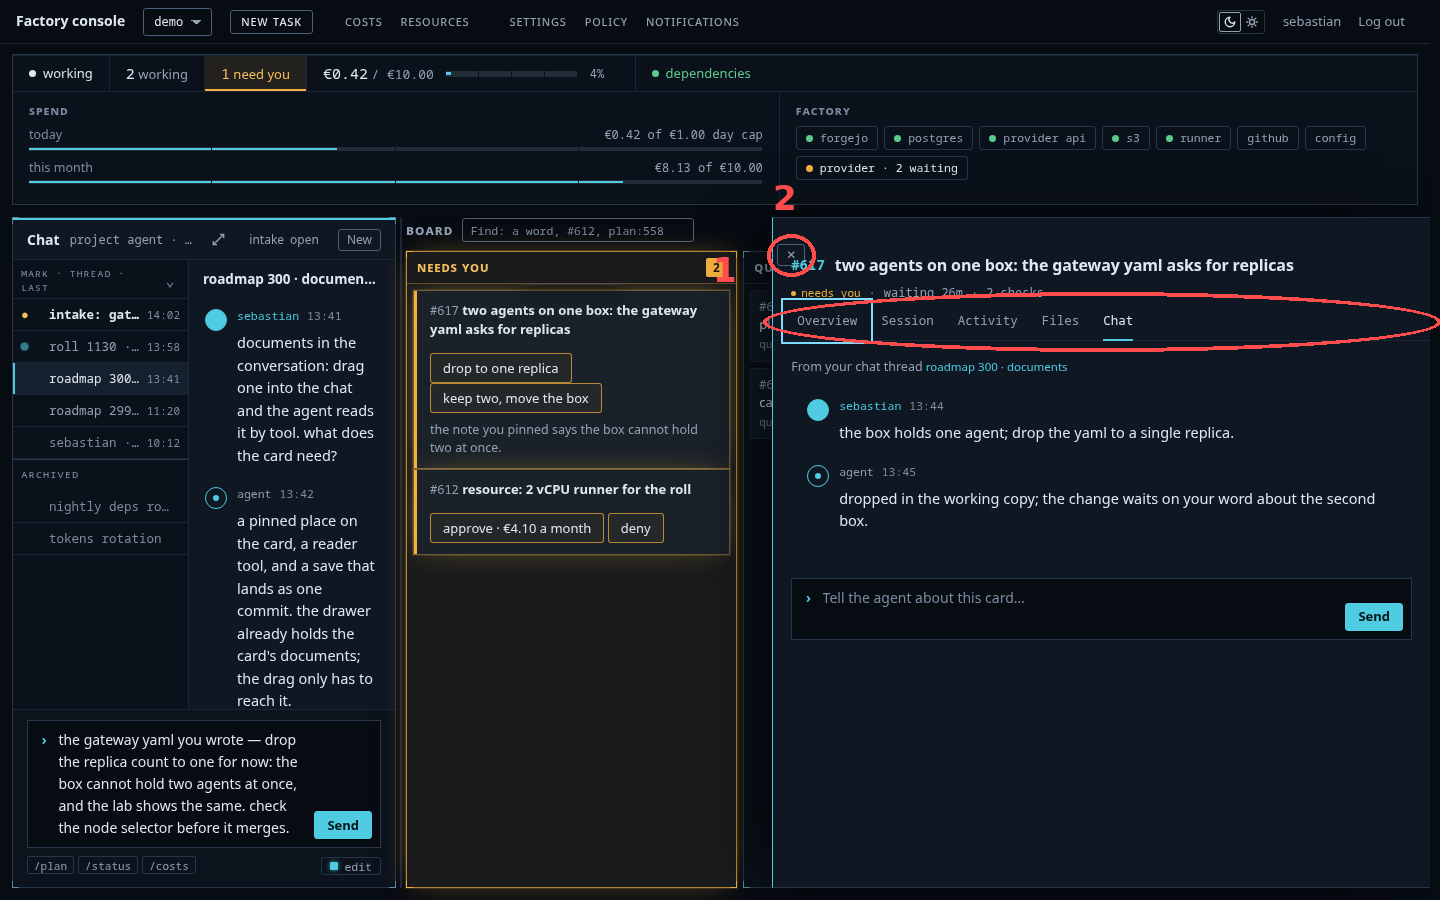
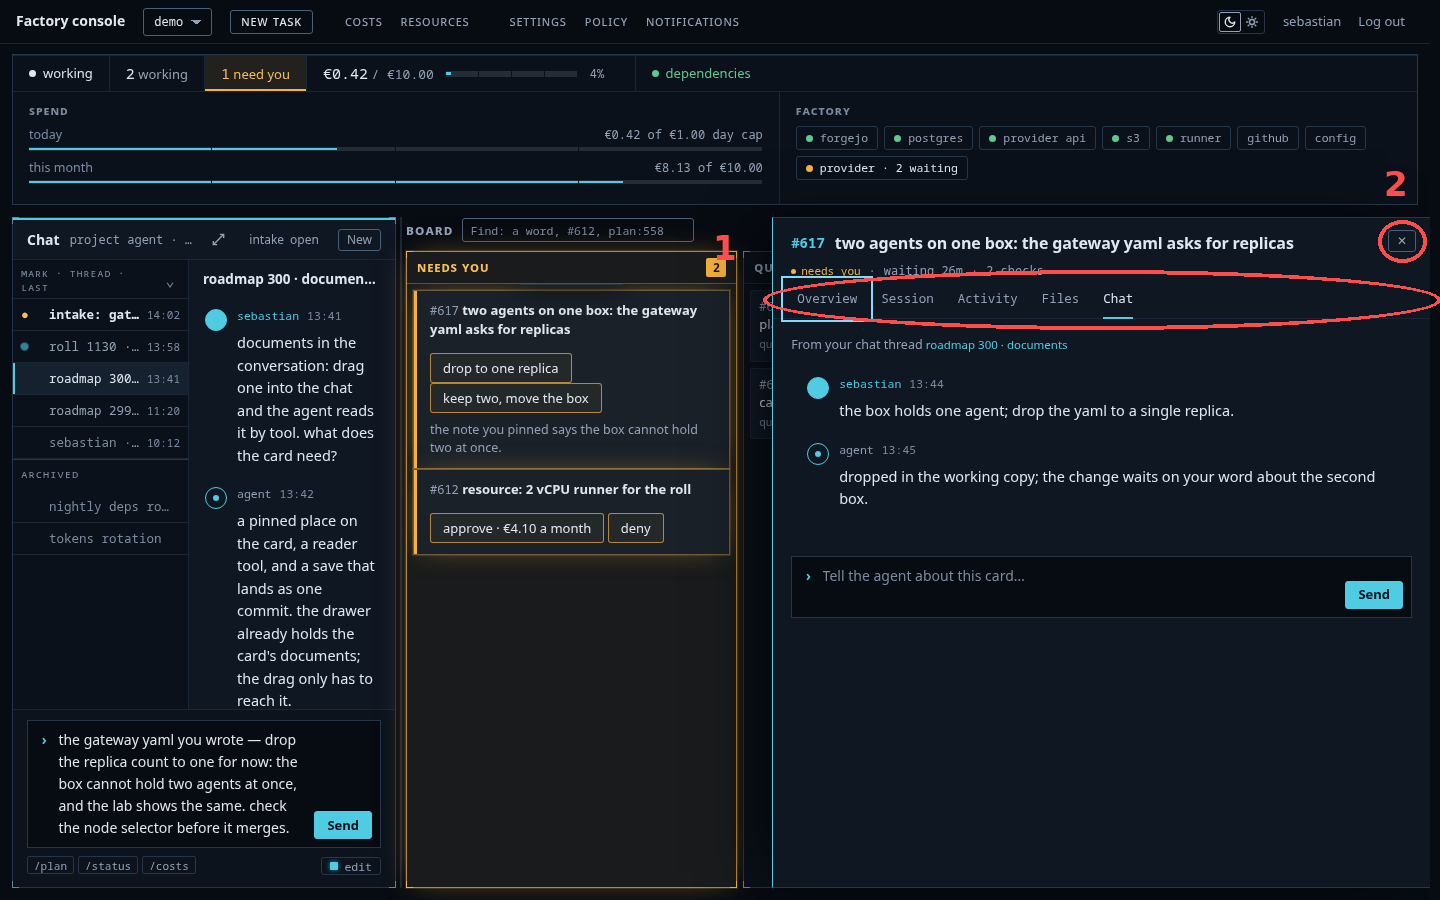
round 11: the input sizer seam, and the drawer X unseated by the tooltip anchor fixed

diff --git a/design/rounds/11-compact-reorg/cand/try-a-bundle.html b/design/rounds/11-compact-reorg/cand/try-a-bundle.html
@@ -34,6 +34,7 @@ a.lchip { text-decoration: none; }
 .chat.with-threads > .composer { grid-column: 1 / -1; }
 
 /* try wiring: the glyph flips, the edge tab returns, tooltips on every quiet control */
+[data-tip] { position: relative; }
 .wctl .col { display: none; }
 .wctl[aria-pressed="true"] .exp { display: none; }
 .wctl[aria-pressed="true"] .col { display: block; }
@@ -42,10 +43,15 @@ a.lchip { text-decoration: none; }
 .edge-tab:hover { color: var(--accent); border-color: var(--accent); }
 #screen.chat-only .edge-tab { display: inline-flex; align-items: center; }
 #chat-divider { cursor: col-resize; }
+form.composer { position: relative; }
+.growbar { position: absolute; top: -5px; left: 0; right: 0; height: 10px; cursor: row-resize; z-index: 5; }
+.growbar::after { content: "\2965"; position: absolute; left: 50%; top: 50%; transform: translate(-50%, -50%) rotate(-45deg); display: inline-flex; align-items: center; justify-content: center; width: 30px; height: 18px; border: 1px solid var(--line-strong); border-radius: 3px; background: var(--bg-raised); color: var(--text-faint); font: 11px/1 var(--font-mono); opacity: 0; transition: opacity .12s; }
+.growbar:hover::after, .growbar:focus-visible::after { opacity: 1; }
 .tip { display: none; }
-[data-tip] { position: relative; }
 [data-tip]:hover::after, [data-tip]:focus-visible::after { content: attr(data-tip); position: absolute; left: 50%; bottom: calc(100% + 6px); transform: translateX(-50%); white-space: nowrap; padding: 3px 8px; border: 1px solid var(--line-strong); background: var(--bg-raised); color: var(--text-muted); font: 11px/1.5 var(--font-mono); box-shadow: 0 8px 24px rgba(0,0,0,.35); z-index: 80; pointer-events: none; }
 #chat-divider[data-tip]:hover::after, #chat-divider[data-tip]:focus-visible::after { left: 14px; bottom: 50%; transform: translateY(50%); }
+/* the tooltip anchor must not unseat the console's absolutely placed controls */
+.drawer-close { position: absolute; top: 12px; right: 14px; }
 
 #screen.chat-only .chat.with-threads { grid-template-columns: 176px minmax(0, 48rem); justify-content: center; }
 .pane[hidden] { display: none; }
@@ -360,6 +366,44 @@ intake <span class="intake-name">open</span>
     intake.setAttribute("data-intake", open ? "closed" : "open");
     intake.setAttribute("aria-pressed", open ? "true" : "false");
     var n = intake.querySelector(".intake-name"); if (n) n.textContent = open ? "closed" : "open";
+  });
+
+  // the input's top edge: drag to size, double-click to reset, grows with typing
+  document.querySelectorAll("form.composer").forEach(function (form) {
+    var ta = form.querySelector("textarea");
+    if (!ta) return;
+    var bar = document.createElement("div");
+    bar.className = "growbar";
+    bar.setAttribute("data-tip", "Drag to size the input; double-click resets it");
+    bar.setAttribute("role", "separator");
+    bar.setAttribute("aria-orientation", "horizontal");
+    bar.setAttribute("tabindex", "0");
+    form.insertBefore(bar, form.firstChild);
+    var y0 = 0, h0 = 0, on = false;
+    bar.addEventListener("pointerdown", function (e) {
+      on = true; y0 = e.clientY; h0 = ta.getBoundingClientRect().height;
+      try { bar.setPointerCapture(e.pointerId); } catch (x) {}
+      e.preventDefault();
+    });
+    bar.addEventListener("pointermove", function (e) {
+      if (!on) return;
+      var h = Math.round(Math.max(44, Math.min(window.innerHeight * 0.6, h0 + (y0 - e.clientY))));
+      ta.style.height = h + "px";
+    });
+    ["pointerup", "pointercancel"].forEach(function (n) { bar.addEventListener(n, function () { on = false; }); });
+    bar.addEventListener("dblclick", function () { ta.style.height = ""; });
+    bar.addEventListener("keydown", function (e) {
+      if (e.key !== "ArrowUp" && e.key !== "ArrowDown") return;
+      var cur = ta.getBoundingClientRect().height;
+      var h = Math.round(Math.max(44, Math.min(window.innerHeight * 0.6, cur + (e.key === "ArrowUp" ? 24 : -24))));
+      ta.style.height = h + "px";
+      e.preventDefault();
+    });
+    ta.addEventListener("input", function () {
+      if (ta.scrollHeight > ta.clientHeight) {
+        ta.style.height = Math.min(Math.round(window.innerHeight * 0.6), ta.scrollHeight) + "px";
+      }
+    });
   });
 
   var sw = document.querySelector("[data-swtoggle]");

diff --git a/design/rounds/11-compact-reorg/cand/try-b-tabs.html b/design/rounds/11-compact-reorg/cand/try-b-tabs.html
@@ -24,6 +24,7 @@
 .ctab .cbadge { font: 10px/1 var(--font-mono); color: var(--text-faint); }
 
 /* try wiring: the glyph flips, the edge tab returns, tooltips on every quiet control */
+[data-tip] { position: relative; }
 .wctl .col { display: none; }
 .wctl[aria-pressed="true"] .exp { display: none; }
 .wctl[aria-pressed="true"] .col { display: block; }
@@ -32,10 +33,15 @@
 .edge-tab:hover { color: var(--accent); border-color: var(--accent); }
 #screen.chat-only .edge-tab { display: inline-flex; align-items: center; }
 #chat-divider { cursor: col-resize; }
+form.composer { position: relative; }
+.growbar { position: absolute; top: -5px; left: 0; right: 0; height: 10px; cursor: row-resize; z-index: 5; }
+.growbar::after { content: "\2965"; position: absolute; left: 50%; top: 50%; transform: translate(-50%, -50%) rotate(-45deg); display: inline-flex; align-items: center; justify-content: center; width: 30px; height: 18px; border: 1px solid var(--line-strong); border-radius: 3px; background: var(--bg-raised); color: var(--text-faint); font: 11px/1 var(--font-mono); opacity: 0; transition: opacity .12s; }
+.growbar:hover::after, .growbar:focus-visible::after { opacity: 1; }
 .tip { display: none; }
-[data-tip] { position: relative; }
 [data-tip]:hover::after, [data-tip]:focus-visible::after { content: attr(data-tip); position: absolute; left: 50%; bottom: calc(100% + 6px); transform: translateX(-50%); white-space: nowrap; padding: 3px 8px; border: 1px solid var(--line-strong); background: var(--bg-raised); color: var(--text-muted); font: 11px/1.5 var(--font-mono); box-shadow: 0 8px 24px rgba(0,0,0,.35); z-index: 80; pointer-events: none; }
 #chat-divider[data-tip]:hover::after, #chat-divider[data-tip]:focus-visible::after { left: 14px; bottom: 50%; transform: translateY(50%); }
+/* the tooltip anchor must not unseat the console's absolutely placed controls */
+.drawer-close { position: absolute; top: 12px; right: 14px; }
 
 #screen.chat-only .chat-main { max-width: 48rem; margin: 0 auto; width: 100%; }
 #switcher { display: none; }
@@ -316,6 +322,44 @@ intake <span class="intake-name">open</span>
     intake.setAttribute("data-intake", open ? "closed" : "open");
     intake.setAttribute("aria-pressed", open ? "true" : "false");
     var n = intake.querySelector(".intake-name"); if (n) n.textContent = open ? "closed" : "open";
+  });
+
+  // the input's top edge: drag to size, double-click to reset, grows with typing
+  document.querySelectorAll("form.composer").forEach(function (form) {
+    var ta = form.querySelector("textarea");
+    if (!ta) return;
+    var bar = document.createElement("div");
+    bar.className = "growbar";
+    bar.setAttribute("data-tip", "Drag to size the input; double-click resets it");
+    bar.setAttribute("role", "separator");
+    bar.setAttribute("aria-orientation", "horizontal");
+    bar.setAttribute("tabindex", "0");
+    form.insertBefore(bar, form.firstChild);
+    var y0 = 0, h0 = 0, on = false;
+    bar.addEventListener("pointerdown", function (e) {
+      on = true; y0 = e.clientY; h0 = ta.getBoundingClientRect().height;
+      try { bar.setPointerCapture(e.pointerId); } catch (x) {}
+      e.preventDefault();
+    });
+    bar.addEventListener("pointermove", function (e) {
+      if (!on) return;
+      var h = Math.round(Math.max(44, Math.min(window.innerHeight * 0.6, h0 + (y0 - e.clientY))));
+      ta.style.height = h + "px";
+    });
+    ["pointerup", "pointercancel"].forEach(function (n) { bar.addEventListener(n, function () { on = false; }); });
+    bar.addEventListener("dblclick", function () { ta.style.height = ""; });
+    bar.addEventListener("keydown", function (e) {
+      if (e.key !== "ArrowUp" && e.key !== "ArrowDown") return;
+      var cur = ta.getBoundingClientRect().height;
+      var h = Math.round(Math.max(44, Math.min(window.innerHeight * 0.6, cur + (e.key === "ArrowUp" ? 24 : -24))));
+      ta.style.height = h + "px";
+      e.preventDefault();
+    });
+    ta.addEventListener("input", function () {
+      if (ta.scrollHeight > ta.clientHeight) {
+        ta.style.height = Math.min(Math.round(window.innerHeight * 0.6), ta.scrollHeight) + "px";
+      }
+    });
   });
 
   var sw = document.querySelector("[data-swtoggle]");

diff --git a/design/rounds/11-compact-reorg/cand/test-try.js b/design/rounds/11-compact-reorg/cand/test-try.js
@@ -22,6 +22,8 @@ const { chromium } = require("playwright");
     full: document.getElementById("screen").classList.contains("chat-only"),
     pressed: document.getElementById("chat-full").getAttribute("aria-pressed"),
     edgeVisible: getComputedStyle(document.querySelector(".edge-tab")).display !== "none",
+    edgePos: getComputedStyle(document.querySelector(".edge-tab")).position,
+    edgeX: Math.round(document.querySelector(".edge-tab").getBoundingClientRect().x),
     colGlyph: getComputedStyle(document.querySelector("#chat-full .col")).display !== "none"
   }));
   await p.keyboard.press("Escape");
@@ -38,7 +40,12 @@ const { chromium } = require("playwright");
   out.a_drawer = await p.evaluate(() => ({
     shown: !document.getElementById("drawer").hidden,
     ref: document.querySelector("#drawer .dr-ref").textContent,
-    title: document.querySelector("#drawer .dr-title h2").textContent
+    title: document.querySelector("#drawer .dr-title h2").textContent,
+    closeClear: (() => {
+      const c = document.querySelector("#drawer-close").getBoundingClientRect();
+      const h = document.querySelector("#drawer .dr-title h2").getBoundingClientRect();
+      return !(c.x < h.right && h.x < c.right && c.y < h.bottom && h.y < c.bottom);
+    })()
   }));
   await p.click('[data-tab="overview"]');
   out.a_tabOverview = await p.evaluate(() => ({
@@ -67,6 +74,33 @@ const { chromium } = require("playwright");
   // tooltip on hover
   await p.hover("#chat-full");
   out.a_tip = await p.evaluate(() => getComputedStyle(document.querySelector("#chat-full"), "::after").content !== "none");
+  // the input sizer: drag, reset, keys, auto-grow
+  out.a_growInit = await p.evaluate(() => {
+    const form = document.querySelector("#chat-form");
+    const bar = form.querySelector(".growbar");
+    return {
+      bar: !!bar,
+      firstChild: form.firstElementChild === bar,
+      atTop: Math.abs(bar.getBoundingClientRect().top + bar.getBoundingClientRect().height / 2 - form.getBoundingClientRect().top) <= 1,
+      taH: Math.round(form.querySelector("textarea").getBoundingClientRect().height)
+    };
+  });
+  const bar = await p.evaluate(() => {
+    const r = document.querySelector("#chat-form .growbar").getBoundingClientRect();
+    return { x: Math.round(r.x + r.width / 2), y: Math.round(r.y + r.height / 2) };
+  });
+  await p.mouse.move(bar.x, bar.y);
+  await p.mouse.down();
+  await p.mouse.move(bar.x, bar.y - 120, { steps: 6 });
+  await p.mouse.up();
+  out.a_growDrag = await p.evaluate(() => Math.round(document.querySelector("#chat-form textarea").getBoundingClientRect().height));
+  await p.dblclick("#chat-form .growbar");
+  out.a_growReset = await p.evaluate(() => Math.round(document.querySelector("#chat-form textarea").getBoundingClientRect().height));
+  await p.focus("#chat-form .growbar");
+  await p.keyboard.press("ArrowUp");
+  out.a_growKeys = await p.evaluate(() => Math.round(document.querySelector("#chat-form textarea").getBoundingClientRect().height));
+  await p.fill("#chat-form textarea", "x".repeat(600));
+  out.a_growAuto = await p.evaluate(() => Math.round(document.querySelector("#chat-form textarea").getBoundingClientRect().height));
   out.a_errs = errs;
   await p.close();
 
@@ -95,6 +129,16 @@ const { chromium } = require("playwright");
   }));
   await p.keyboard.press("Escape");
   out.b_esc = await p.evaluate(() => !document.getElementById("screen").classList.contains("chat-only"));
+  // B shares the input sizer
+  const bBar = await p.evaluate(() => {
+    const r = document.querySelector("form.composer .growbar").getBoundingClientRect();
+    return { x: Math.round(r.x + r.width / 2), y: Math.round(r.y + r.height / 2) };
+  });
+  await p.mouse.move(bBar.x, bBar.y);
+  await p.mouse.down();
+  await p.mouse.move(bBar.x, bBar.y - 80, { steps: 6 });
+  await p.mouse.up();
+  out.b_grow = await p.evaluate(() => Math.round(document.querySelector("form.composer textarea").getBoundingClientRect().height));
   out.b_errs = errsB;
   await p.close();
 

diff --git a/design/rounds/11-compact-reorg/index.html b/design/rounds/11-compact-reorg/index.html
@@ -40,8 +40,8 @@ li { margin: 3px 0; }
 
 <h2>Try the two finalists</h2>
 <p>Both are live pages, not pictures. Open each, then: drag the divider, press the glyph, hover anything quiet, open a card. The red circles mark the controls.</p>
-<p><strong><a href="cand/try-a-bundle.html">A — the bundle</a></strong> (try it). <strong>1</strong> the glyph toggle: chat to full screen and back, the glyph flips, Esc also exits. <strong>2</strong> the divider: drag it, or focus it and press the arrow keys; the chat never shrinks under 24 rem. <strong>3</strong> the lamp chips: hover for state, detail and age. <strong>4</strong> any card opens the drawer. <strong>5</strong> the intake: click to close or open the agent's own filings. Typing and sending works in both composers; the theme buttons top right switch dark and light.</p>
-<figure><img src="cand/try-a-annotated.png" alt="the bundle at rest, controls circled" loading="lazy"><figcaption>A at rest. The glyph, the divider, the chips, a card, the intake.</figcaption></figure>
+<p><strong><a href="cand/try-a-bundle.html">A — the bundle</a></strong> (try it). <strong>1</strong> the glyph toggle: chat to full screen and back, the glyph flips, Esc also exits. <strong>2</strong> the divider: drag it, or focus it and press the arrow keys; the chat never shrinks under 24 rem. <strong>3</strong> the lamp chips: hover for state, detail and age. <strong>4</strong> any card opens the drawer. <strong>5</strong> the intake: click to close or open the agent's own filings. <strong>6</strong> the input's top edge: hover for the grip, drag to size the input, double-click resets it, and it grows on its own while you type. Sending works in both composers; the theme buttons top right switch dark and light.</p>
+<figure><img src="cand/try-a-annotated.png" alt="the bundle at rest, controls circled" loading="lazy"><figcaption>A at rest. The glyph, the divider, the chips, a card, the intake, the input sizer.</figcaption></figure>
 <figure><img src="cand/try-a-drawer-annotated.png" alt="the bundle with the card drawer open, tabs circled" loading="lazy"><figcaption>A with a card open. <strong>1</strong> the drawer's tabs — Chat keeps the card's conversation with the card. <strong>2</strong> close, or Esc.</figcaption></figure>
 <p><strong><a href="cand/try-b-tabs.html">B — the tab pair</a></strong> (try it). <strong>1</strong> CHAT | THREADS: the tab swaps the conversation and the thread table; the conversation gets the panel's full width. <strong>2</strong> the same glyph toggle, full screen and back. <strong>3</strong> the same divider drag. The composer and tooltips work as in A.</p>
 <figure><img src="cand/try-b-annotated.png" alt="the tab pair at rest, controls circled" loading="lazy"><figcaption>B at rest. The tab pair, the glyph, the divider.</figcaption></figure>

diff --git a/design/rounds/11-compact-reorg/cand/shoot-try.js b/design/rounds/11-compact-reorg/cand/shoot-try.js
@@ -10,6 +10,13 @@ const fs = require("fs");
   await p.waitForTimeout(1200);
   if (action === "drawer") await p.click("article.need");
   if (action === "threads") await p.click(".ctab:nth-child(2)");
+  if (action === "rest") {
+    const bar = await p.evaluate(() => {
+      const b = document.querySelector("#chat-form .growbar").getBoundingClientRect();
+      return { x: Math.round(b.x + b.width / 2), y: Math.round(b.y + b.height / 2) };
+    });
+    await p.mouse.move(bar.x, bar.y);
+  }
   await p.waitForTimeout(400);
   const rects = await p.evaluate(() => {
     const r = s => {
@@ -19,7 +26,7 @@ const fs = require("fs");
       return { s, x: Math.round(b.x), y: Math.round(b.y), w: Math.round(b.width), h: Math.round(b.height) };
     };
     const out = {};
-    const want = ["#chat-full", "#chat-divider", ".chiprow", "article.need", "#drawer .tabs", "#drawer-close", ".ctabs", ".edge-tab", "#intake-btn"];
+    const want = ["#chat-full", "#chat-divider", ".chiprow", "article.need", "#drawer .tabs", "#drawer-close", ".ctabs", ".edge-tab", "#intake-btn", "#chat-form .growbar", "#chat-form"];
     want.forEach(s => { const v = r(s); if (v) out[s] = v; });
     return out;
   });

diff --git a/design/rounds/11-compact-reorg/cand/check-drawer.js b/design/rounds/11-compact-reorg/cand/check-drawer.js
@@ -1,0 +1,23 @@
+const { chromium } = require("playwright");
+(async () => {
+  const b = await chromium.launch();
+  const p = await b.newPage({ viewport: { width: 1440, height: 900 } });
+  await p.goto("file://" + process.cwd() + "/design/rounds/11-compact-reorg/cand/try-a-bundle.html");
+  await p.waitForTimeout(800);
+  await p.click("article.need");
+  await p.waitForTimeout(300);
+  const r = await p.evaluate(() => {
+    const rc = s => { const el = document.querySelector(s); if (!el) return null; const b = el.getBoundingClientRect(); return { x: Math.round(b.x), y: Math.round(b.y), w: Math.round(b.width), h: Math.round(b.height) }; };
+    return {
+      close: rc("#drawer-close"),
+      title: rc("#drawer .dr-title"),
+      ref: rc("#drawer .dr-ref"),
+      h2: rc("#drawer .dr-title h2"),
+      head: rc("#drawer .drawer-head"),
+      headPos: getComputedStyle(document.querySelector("#drawer .drawer-head")).position,
+      closePos: getComputedStyle(document.querySelector("#drawer-close")).position
+    };
+  });
+  console.log(JSON.stringify(r, null, 1));
+  await b.close();
+})();

diff --git a/design/rounds/11-compact-reorg/cand/build-try.py b/design/rounds/11-compact-reorg/cand/build-try.py
@@ -8,6 +8,7 @@ GLYPH_NEW = ('<path class="exp" d="M9.5 2.5h4v4M6.5 13.5h-4v-4M3 13l10-10" fill=
 
 CSS_COMMON = """
 /* try wiring: the glyph flips, the edge tab returns, tooltips on every quiet control */
+[data-tip] { position: relative; }
 .wctl .col { display: none; }
 .wctl[aria-pressed="true"] .exp { display: none; }
 .wctl[aria-pressed="true"] .col { display: block; }
@@ -16,10 +17,15 @@ CSS_COMMON = """
 .edge-tab:hover { color: var(--accent); border-color: var(--accent); }
 #screen.chat-only .edge-tab { display: inline-flex; align-items: center; }
 #chat-divider { cursor: col-resize; }
+form.composer { position: relative; }
+.growbar { position: absolute; top: -5px; left: 0; right: 0; height: 10px; cursor: row-resize; z-index: 5; }
+.growbar::after { content: "\\2965"; position: absolute; left: 50%; top: 50%; transform: translate(-50%, -50%) rotate(-45deg); display: inline-flex; align-items: center; justify-content: center; width: 30px; height: 18px; border: 1px solid var(--line-strong); border-radius: 3px; background: var(--bg-raised); color: var(--text-faint); font: 11px/1 var(--font-mono); opacity: 0; transition: opacity .12s; }
+.growbar:hover::after, .growbar:focus-visible::after { opacity: 1; }
 .tip { display: none; }
-[data-tip] { position: relative; }
 [data-tip]:hover::after, [data-tip]:focus-visible::after { content: attr(data-tip); position: absolute; left: 50%; bottom: calc(100% + 6px); transform: translateX(-50%); white-space: nowrap; padding: 3px 8px; border: 1px solid var(--line-strong); background: var(--bg-raised); color: var(--text-muted); font: 11px/1.5 var(--font-mono); box-shadow: 0 8px 24px rgba(0,0,0,.35); z-index: 80; pointer-events: none; }
 #chat-divider[data-tip]:hover::after, #chat-divider[data-tip]:focus-visible::after { left: 14px; bottom: 50%; transform: translateY(50%); }
+/* the tooltip anchor must not unseat the console's absolutely placed controls */
+.drawer-close { position: absolute; top: 12px; right: 14px; }
 """
 
 JS = """
@@ -110,6 +116,44 @@ JS = """
     intake.setAttribute("data-intake", open ? "closed" : "open");
     intake.setAttribute("aria-pressed", open ? "true" : "false");
     var n = intake.querySelector(".intake-name"); if (n) n.textContent = open ? "closed" : "open";
+  });
+
+  // the input's top edge: drag to size, double-click to reset, grows with typing
+  document.querySelectorAll("form.composer").forEach(function (form) {
+    var ta = form.querySelector("textarea");
+    if (!ta) return;
+    var bar = document.createElement("div");
+    bar.className = "growbar";
+    bar.setAttribute("data-tip", "Drag to size the input; double-click resets it");
+    bar.setAttribute("role", "separator");
+    bar.setAttribute("aria-orientation", "horizontal");
+    bar.setAttribute("tabindex", "0");
+    form.insertBefore(bar, form.firstChild);
+    var y0 = 0, h0 = 0, on = false;
+    bar.addEventListener("pointerdown", function (e) {
+      on = true; y0 = e.clientY; h0 = ta.getBoundingClientRect().height;
+      try { bar.setPointerCapture(e.pointerId); } catch (x) {}
+      e.preventDefault();
+    });
+    bar.addEventListener("pointermove", function (e) {
+      if (!on) return;
+      var h = Math.round(Math.max(44, Math.min(window.innerHeight * 0.6, h0 + (y0 - e.clientY))));
+      ta.style.height = h + "px";
+    });
+    ["pointerup", "pointercancel"].forEach(function (n) { bar.addEventListener(n, function () { on = false; }); });
+    bar.addEventListener("dblclick", function () { ta.style.height = ""; });
+    bar.addEventListener("keydown", function (e) {
+      if (e.key !== "ArrowUp" && e.key !== "ArrowDown") return;
+      var cur = ta.getBoundingClientRect().height;
+      var h = Math.round(Math.max(44, Math.min(window.innerHeight * 0.6, cur + (e.key === "ArrowUp" ? 24 : -24))));
+      ta.style.height = h + "px";
+      e.preventDefault();
+    });
+    ta.addEventListener("input", function () {
+      if (ta.scrollHeight > ta.clientHeight) {
+        ta.style.height = Math.min(Math.round(window.innerHeight * 0.6), ta.scrollHeight) + "px";
+      }
+    });
   });
 
   var sw = document.querySelector("[data-swtoggle]");

diff --git a/design/rounds/11-compact-reorg/cand/annotate-try.py b/design/rounds/11-compact-reorg/cand/annotate-try.py
@@ -15,7 +15,7 @@ def mark(im, d, rect, n, label_pos):
 def load(name):
     return json.load(open(cand + name))
 
-# A, rest: 1 toggle, 2 divider grip, 3 chips, 4 a card, 5 intake
+# A, rest: 1 toggle, 2 divider grip, 3 chips, 4 a card, 5 intake, 6 input sizer
 r = load("rects-a-rest.json")
 im = Image.open(cand + "try-a-rest.png").convert("RGB")
 d = ImageDraw.Draw(im)
@@ -26,6 +26,9 @@ mark(im, d, grip, 2, (340, mid["y"] + mid["h"] // 2 - 66))
 mark(im, d, r[".chiprow"], 3, (742, 92))
 mark(im, d, r["article.need"], 4, (r["article.need"]["x"] + 6, r["article.need"]["y"] - 56))
 mark(im, d, r["#intake-btn"], 5, (232, 186))
+bar = r["#chat-form .growbar"]
+sizer = {"x": bar["x"] + bar["w"] // 2 - 15, "y": bar["y"] + 5 - 9, "w": 30, "h": 18}
+mark(im, d, sizer, 6, (sizer["x"] + 46, sizer["y"] - 12))
 im.save(cand + "try-a-annotated.png")
 
 # A, drawer: 1 tabs, 2 close

diff --git a/design/rounds/11-compact-reorg/notes.md b/design/rounds/11-compact-reorg/notes.md
@@ -176,3 +176,29 @@ zero page errors (cand/test-try.js). Control circles drawn from
 measured rectangles (cand/annotate-try.py) onto three annotated PNGs;
 circle placement verified. The static d-pages stay as the round's
 record; the try pages are the pick instruments.
+
+## Sebastian's live verdict and the two fixes (2026-10-19)
+
+Sebastian tried both, picked A, and asked for the input itself to be
+resizable; he also reported the drawer's X overlapping the title.
+
+The input sizer: a 10 px drag seam on the composer's top edge
+(.growbar, a separator role, focusable). Drag sizes the input between
+44 px and 60 vh; double-click resets; ArrowUp/ArrowDown step 24 px;
+typing past the box grows it to fit, capped at 60 vh. The grip shows on
+hover and focus as a small bordered glyph centered on the seam. Wired
+in build-try.py for both try pages; verified: drag 110→230 px, reset to
+110, key step to 134, auto-grow to 264 on 600 characters, B 110→190;
+zero page errors (test-try.js a_grow*, b_grow). The rest shot hovers
+the seam so the grip shows; circle 6 marks it.
+
+The X overlap: root cause was my own tooltip anchor,
+[data-tip] { position: relative }, which sits after console.css in the
+cascade and unseated .drawer-close's absolute placement once the
+title-to-data-tip conversion reached it. Same mechanism would have
+unseated the absolutely placed edge tab. Fixed in CSS_COMMON: the
+[data-tip] rule now comes first in the block, and .drawer-close's
+absolute placement is re-asserted after it. Measured: close at
+x 1388, position absolute; the title text ends at 1376 against the
+36 px right padding console.css already reserves; no intersection
+(test-try.js a_drawer.closeClear true). Both annotated PNGs reshot.
